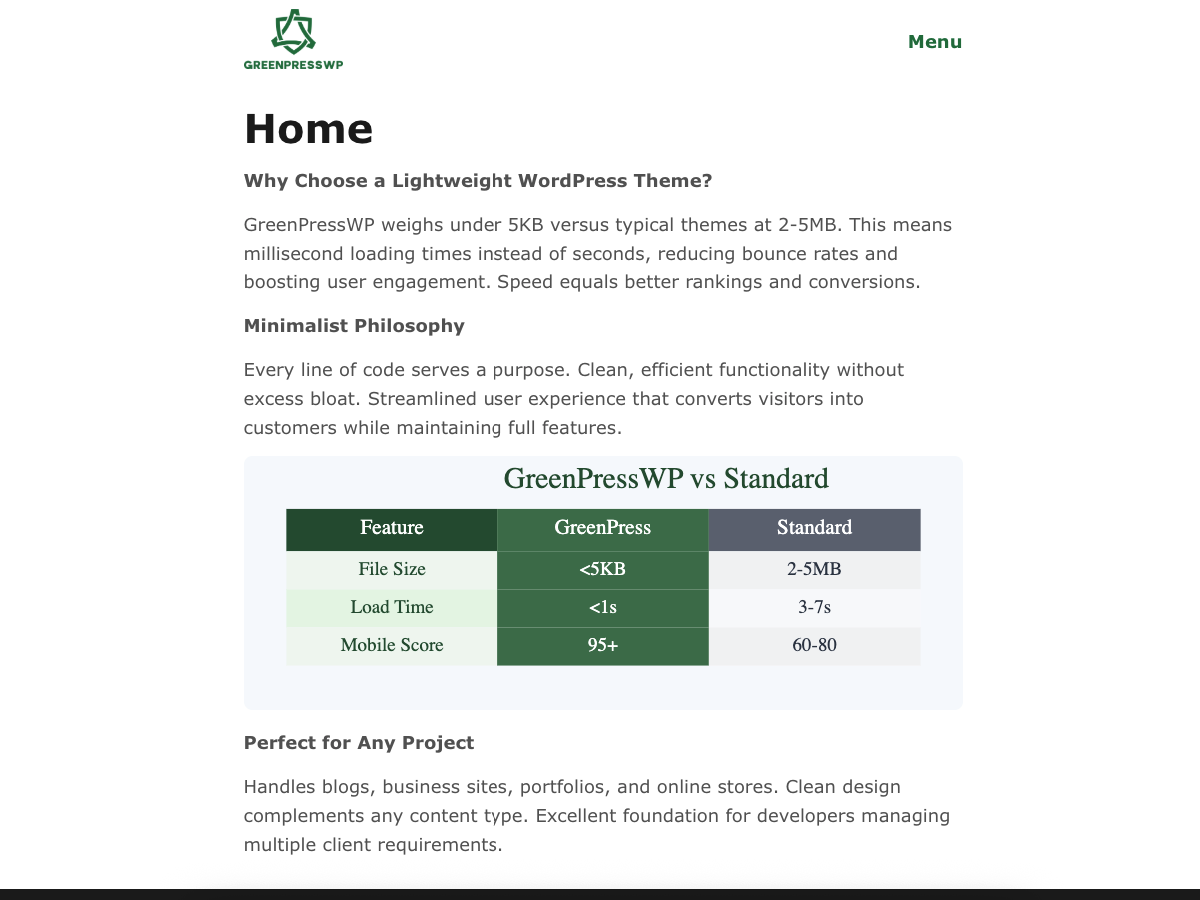
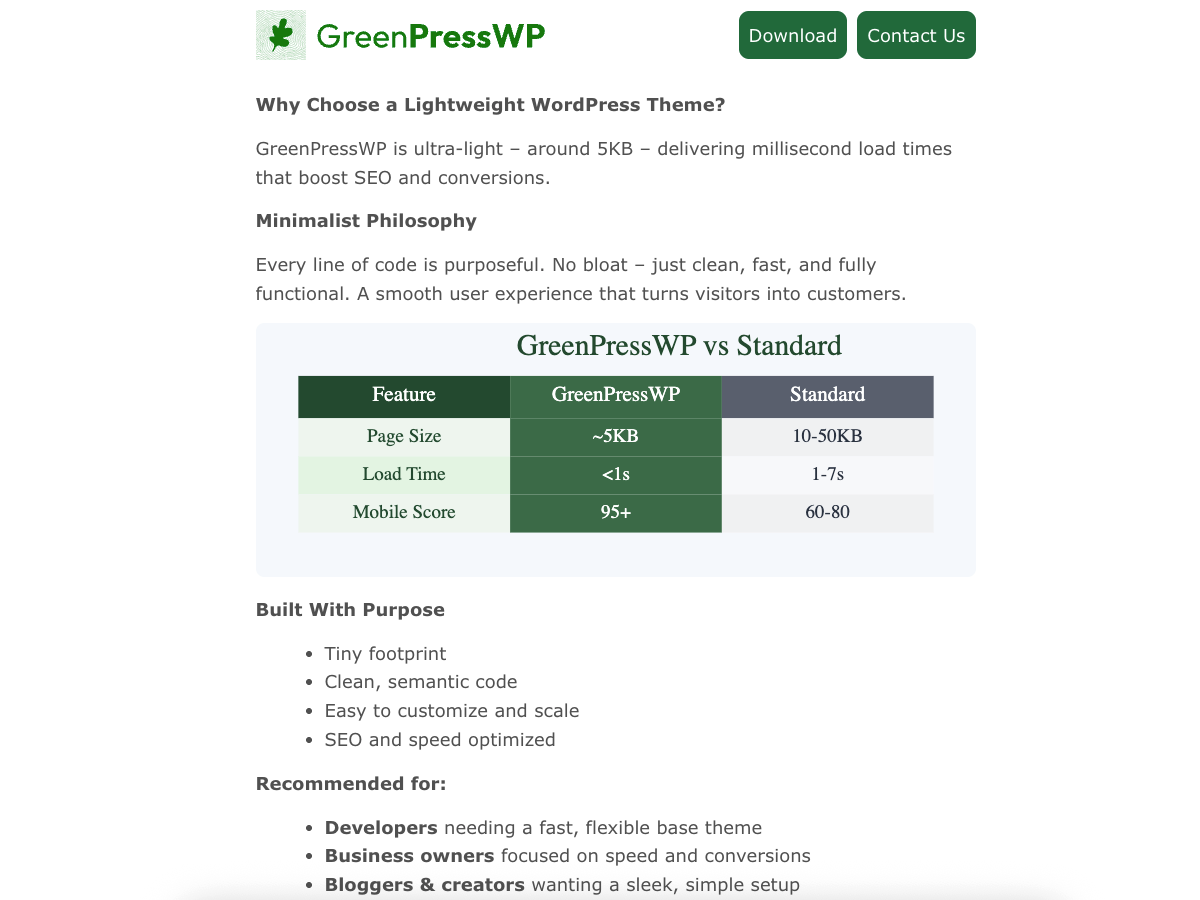
Updated Readme and theme screenshot

Changed region(s): [[0.0, 0.3733, 1.0, 1.0], [0.185, 0.0, 0.8017, 0.3733], [0.6167, 0.0, 0.8325, 0.0933]]

diff --git a/README.md b/README.md
@@ -27,7 +27,7 @@ To set up your homepage to match the theme layout, follow these steps:
 1. Create a new page titled **Home** and add some content to it.
 2. Navigate to **Settings → Reading**, choose **"A static page"** under "Your homepage displays", and set the **Home** page as your **Homepage**.
 3. Visit your site’s frontend — you should now see your custom homepage content displayed.
-4. Go to **Appearance → Menus**, create menu for the **Header** and assign it to the  **Primary Menu**.
+4. Go to **Appearance → Menus**, create menu for the **Header** and assign it to the  **Primary Menu**. If the page leads to a 404 error, try resaving the permalink settings and check again. Go to **Settings → Permalinks → Save Changes**
 5. Your homepage should now reflect the theme’s intended layout and design.
 
 ## Theme Features
@@ -49,7 +49,11 @@ To set up your homepage to match the theme layout, follow these steps:
 - Also found under **Appearance → Customize → Theme Options → Third Party Integration**.
 - Add custom **header and footer scripts** for analytics, tracking, or other third-party tools.
 
-### Footer
+### Header Settings
+- Go to **Appearance → Customize → Theme Options → Header Settings**.
+- From here you can select if you want to keep menu or the buttons. We have added two button fields here.
+
+### Footer Settings
 - Go to **Appearance → Customize → Theme Options → Footer Settings**.
 - You can add here any text or HTML.
 
